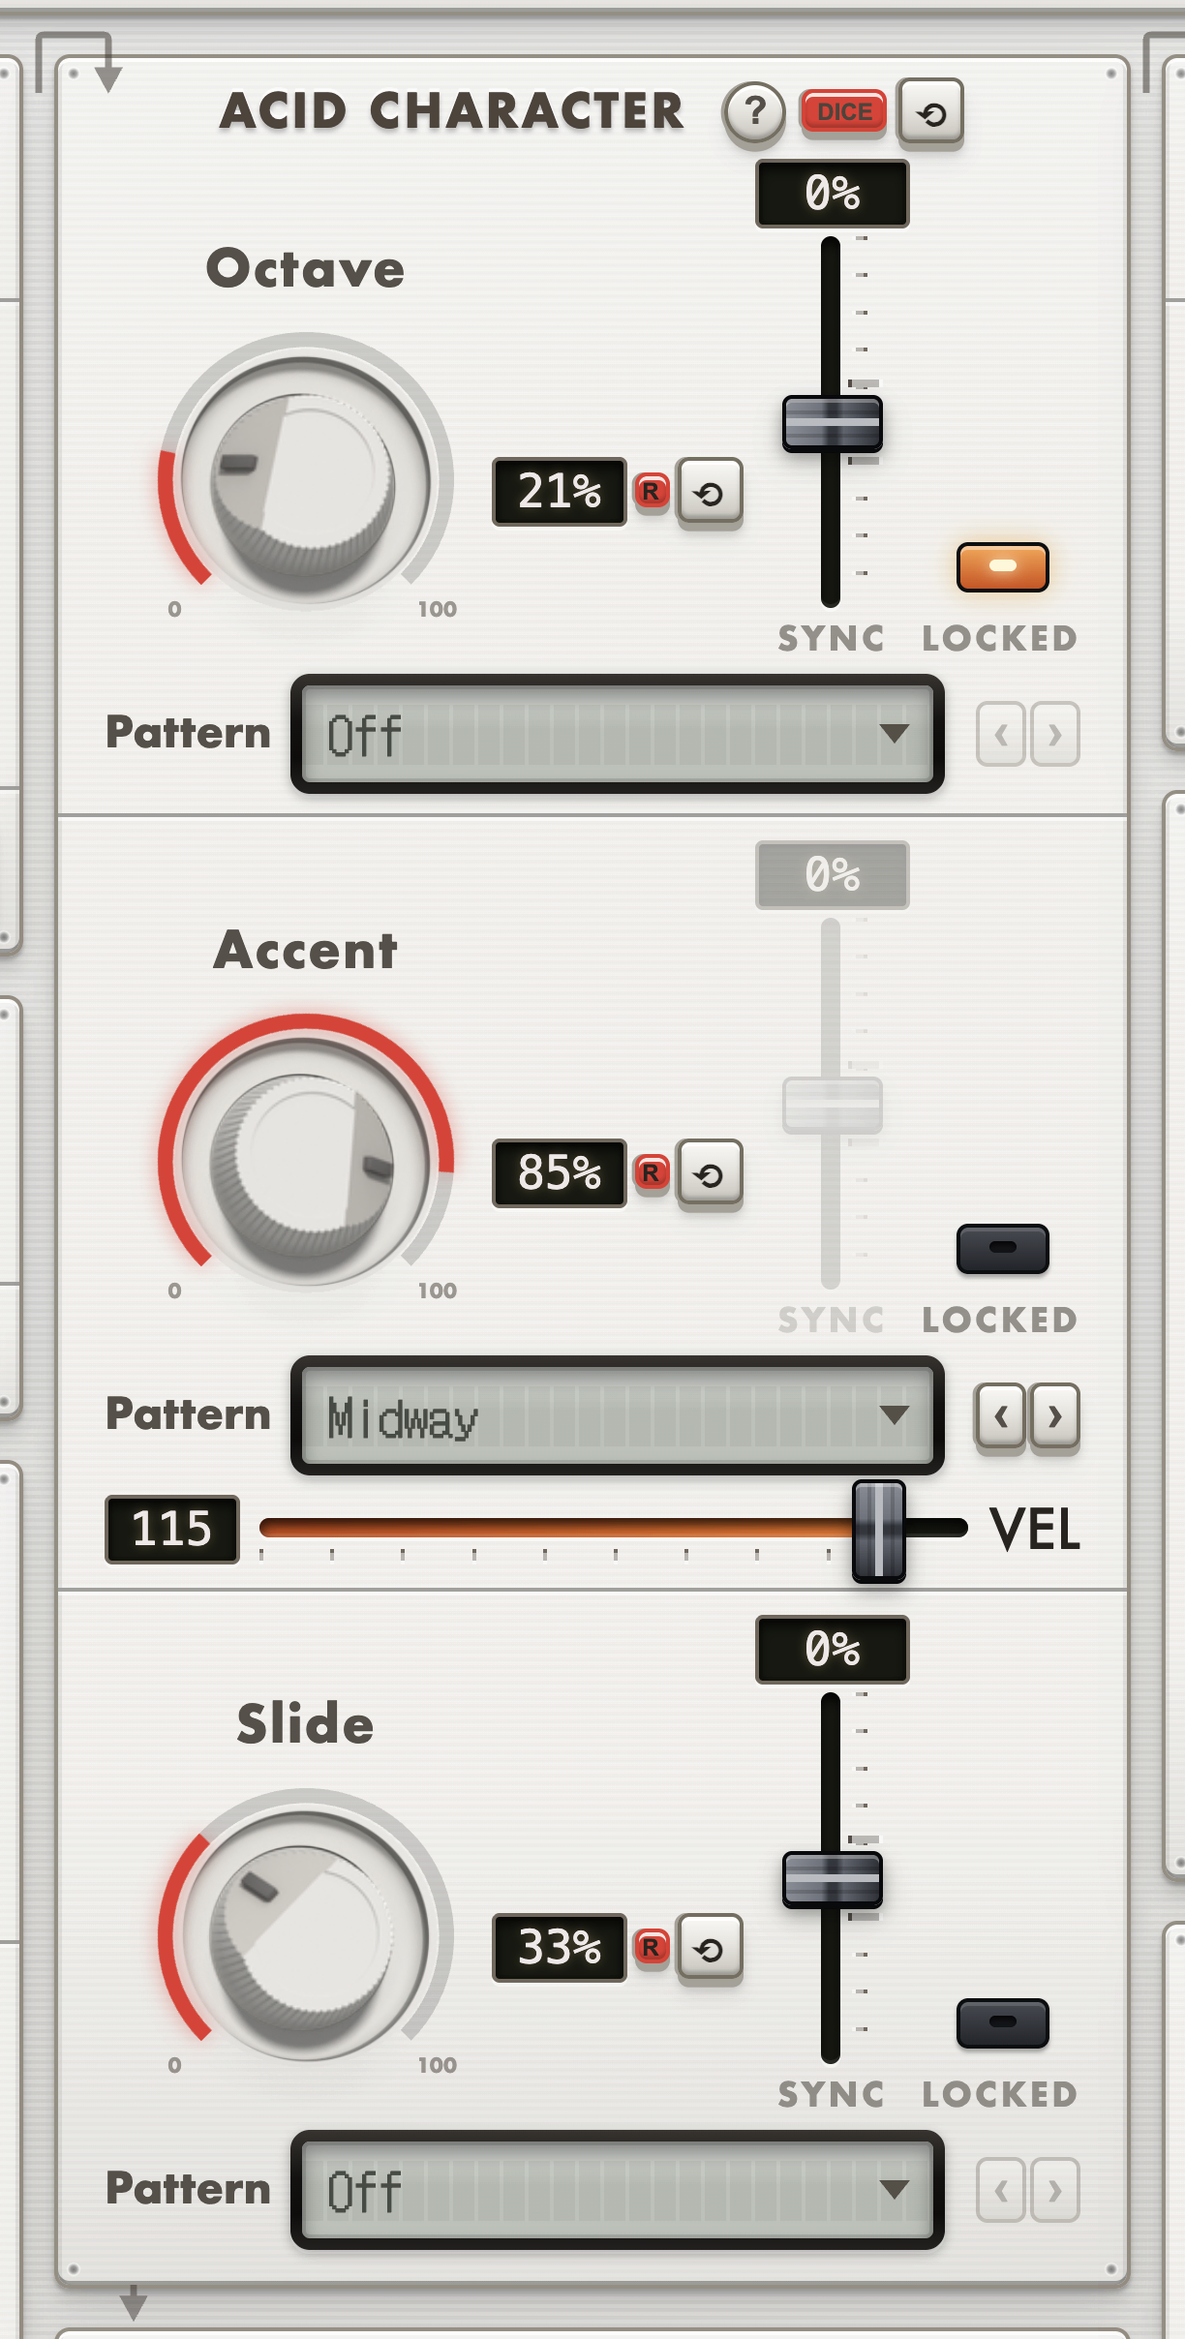
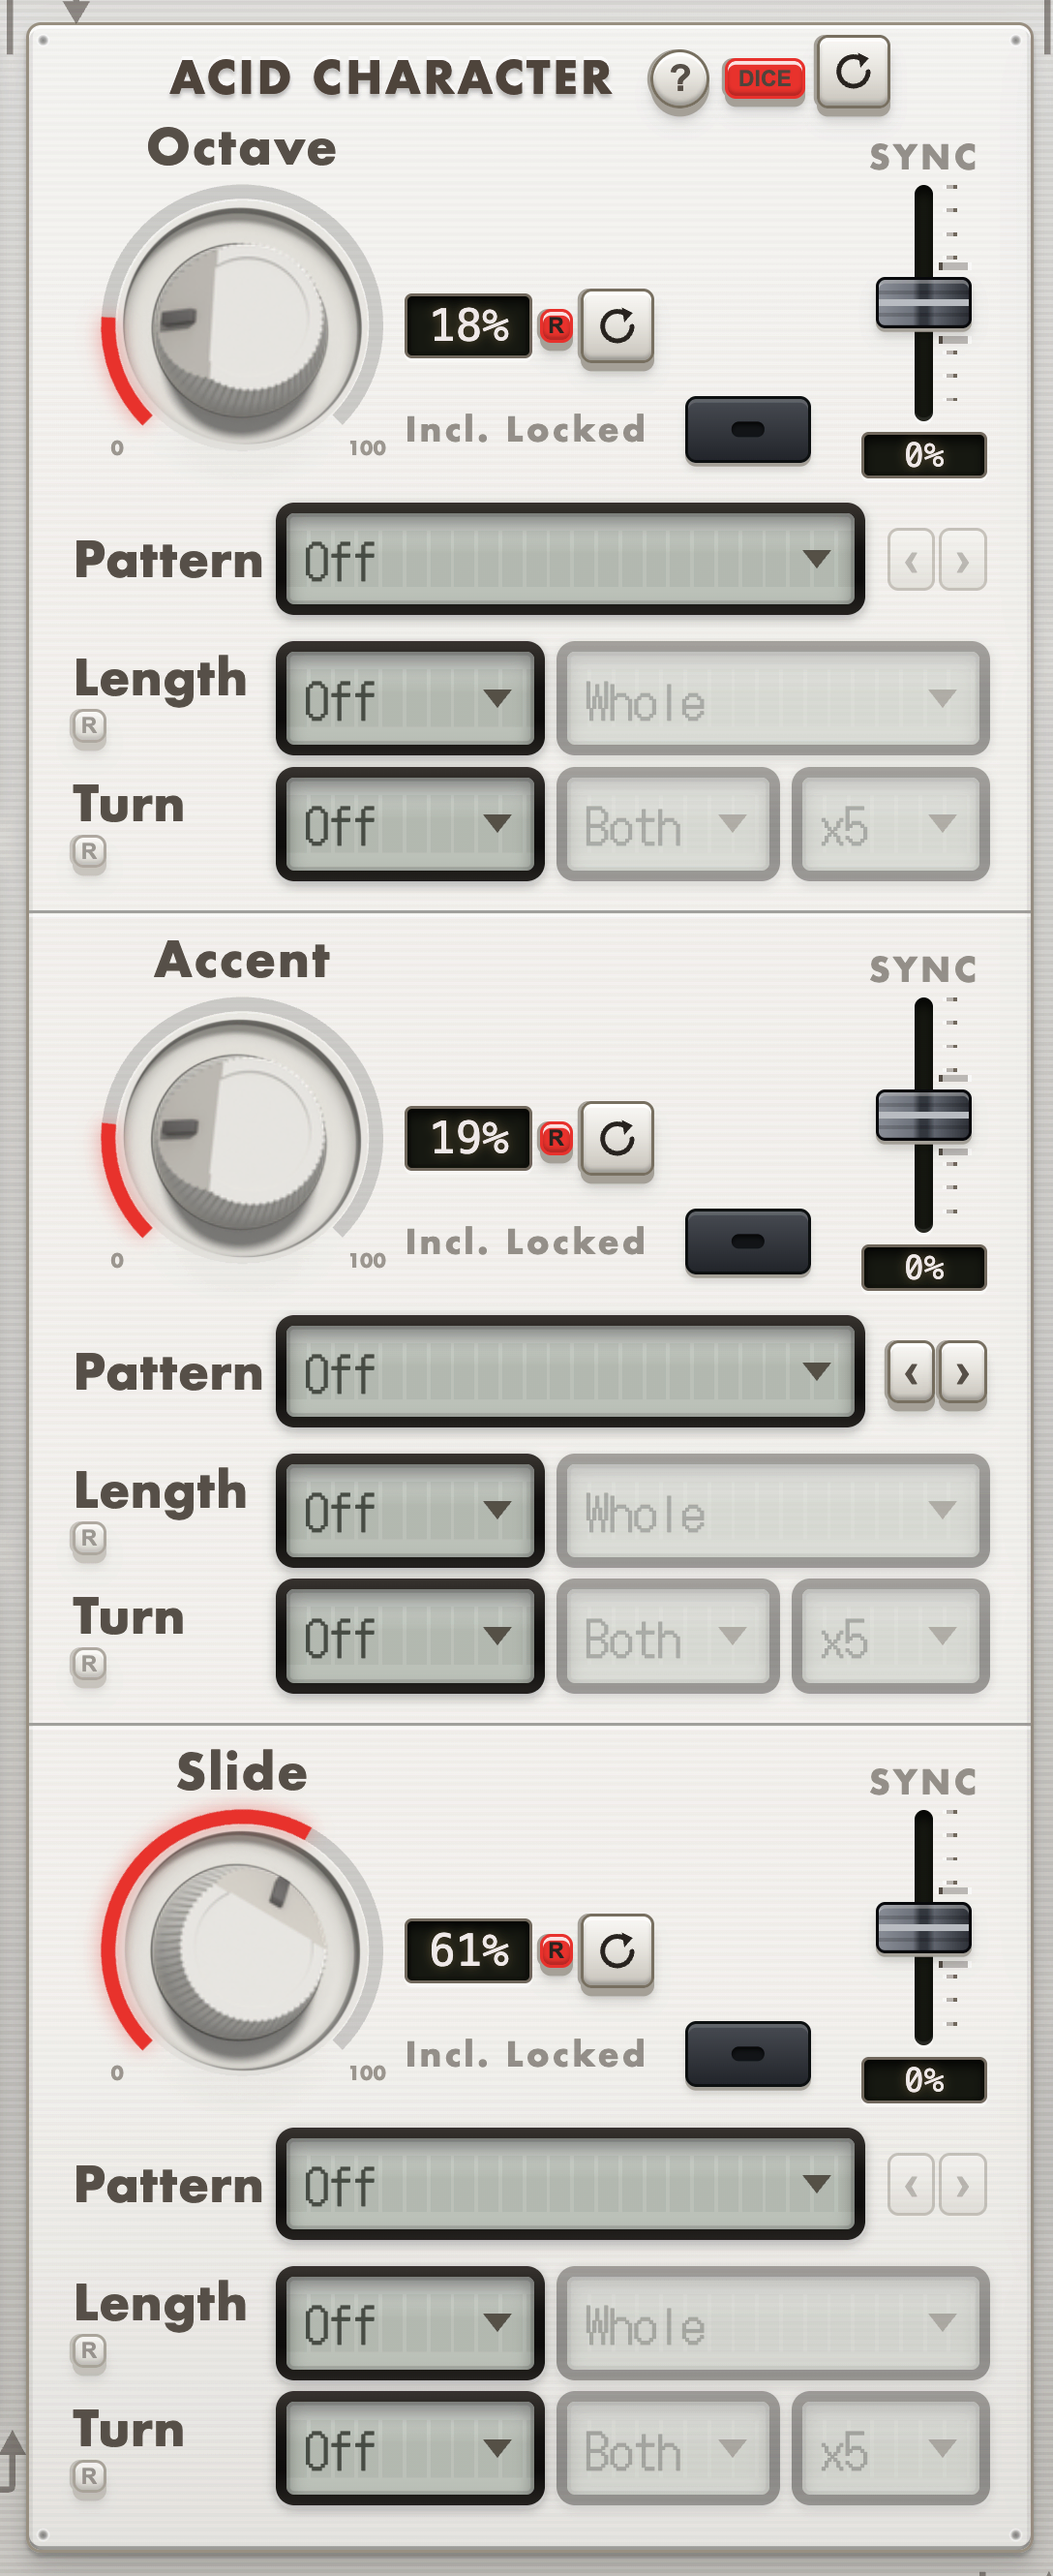
Publish site from jamwareaudio@37b3dc1

diff --git a/apps/mutationstation.html b/apps/mutationstation.html
@@ -96,7 +96,7 @@
     <div class="screen">
       <picture>
         <source srcset="../assets/shots/mutationstation.webp" type="image/webp" />
-        <img class="win-round" src="../assets/shots/mutationstation.png" alt="The MutationStation window: piano roll with locked and unlocked notes, scale panel, and the rhythm, pitch and acid character panels" />
+        <img class="win-round" src="../assets/shots/mutationstation.png" alt="The MutationStation window: a single-row piano-roll toolbar, the roll with locked and unlocked notes, the Scale panel with the Phrasing macro strip beneath it, and the rhythm, pitch and acid character panels" />
       </picture>
     </div>
   </section>
@@ -189,7 +189,7 @@
             <div class="screen">
               <picture>
                 <source srcset="../assets/shots/mutationstation-algorithms.webp" type="image/webp" />
-                <img src="../assets/shots/mutationstation-algorithms.png" alt="The Algorithm dropdown open, showing pitch strategies grouped under headings including Acid / bass shapes, Lead, Phrase forms, Melodic movement and Plain, with Factory Blend ticked" />
+                <img src="../assets/shots/mutationstation-algorithms.png" alt="The Algorithm dropdown open, showing pitch strategies grouped under headings including Whole line, Whole line · Adaptive, Acid / bass shapes, Lead, Phrase forms, Melodic movement and Plain" />
               </picture>
             </div>
             <figcaption>
@@ -199,6 +199,19 @@
               a different answer to &ldquo;where does the next note go?&rdquo;
             </figcaption>
           </figure>
+        </div>
+        <div class="prose story">
+          <p>
+            <strong>A Phrasing strip sits on the Scale panel,</strong> merged
+            onto one plate with an engraved divider: Phrase Length, Turnaround
+            Emphasis, and a "Which phrases" menu (every phrase, every 2nd, or
+            every 4th) that decides how often the emphasis lands. Every device
+            well also carries its own Length and Turn, following those macro
+            values until you set one directly — the LCD's Off entry is the
+            switch back to following the macro. Lengths are even-only and
+            reach 32 bars; an EXTEND switch grows a device's sequence to fit a
+            longer length.
+          </p>
         </div>
         <div class="prose story">
           <p>
@@ -215,7 +228,7 @@
             <div class="screen">
               <picture>
                 <source srcset="../assets/shots/mutationstation-acid.webp" type="image/webp" />
-                <img src="../assets/shots/mutationstation-acid.png" alt="The Acid Character column: Octave, Accent and Slide, each with an amount, a sync slider, a locked toggle and a pattern dropdown" />
+                <img src="../assets/shots/mutationstation-acid.png" alt="The Acid Character column: Octave, Accent and Slide, each around a full-size knob with a vertical SYNC fader, an Incl. Locked caption, a pattern dropdown and a lock" />
               </picture>
             </div>
             <figcaption>
@@ -227,18 +240,17 @@
             <div class="screen">
               <picture>
                 <source srcset="../assets/shots/mutationstation-shape.webp" type="image/webp" />
-                <img src="../assets/shots/mutationstation-shape.png" alt="The right-hand column of MutationStation: Turnaround Emphasis with its Every, Increase and Emphasise settings, Extend Loop with Repeats, a Bar Variation dropdown and five drift sliders for Pitch, Octave, Duration, Accent and Slide, the Density section, and the Keep Original amount" />
+                <img src="../assets/shots/mutationstation-shape.png" alt="The third column of MutationStation: Connect Notes, Extend Loop with Repeats, a Bar Variation dropdown and five drift sliders for Pitch, Octave, Duration, Accent and Slide, the Density section, Keep Original, and a re-roll key" />
               </picture>
             </div>
             <figcaption>
               The column beside it is where the line is shaped after the notes
-              are chosen. <strong>Turnaround Emphasis</strong> gives the last
-              notes of every one, two or four bars boosted odds, so the phrase
-              announces its own repeat; <strong>Extend Loop</strong> doubles or
-              quadruples the loop and lets the extra bars drift;
-              <strong>Density</strong> thins or thickens the pattern; and
-              <strong>Keep Original</strong>, last in the chain, hands a
-              percentage of the notes back to how they started.
+              are chosen. <strong>Extend Loop</strong> doubles or quadruples
+              the loop and lets the extra bars drift; <strong>Density</strong>
+              thins or thickens the pattern; <strong>Keep Original</strong>,
+              last in the chain, hands a percentage of the notes back to how
+              they started; and a thin circular-arrow <strong>re-roll key</strong>
+              sits on every device so you can reshuffle just that one panel.
             </figcaption>
           </figure>
         </div>
@@ -300,11 +312,14 @@
             slide each on their own amount.
           </li>
           <li>
-            <strong>Turnaround Emphasis.</strong> Every one, two or four bars,
-            the last notes of the group get boosted odds of being mutated, giving
-            the last two notes of your sequence a stronger chance of changing.
-            A useful melodic writing tool in house/techno music, where variation
-            usually lands at the end of a phrase.
+            <strong>Turnaround Emphasis,</strong> on a shared Phrasing strip
+            with Phrase Length. Every one, two or four bars, the last notes of
+            the group get boosted odds of being mutated, giving the last two
+            notes of your sequence a stronger chance of changing. A useful
+            melodic writing tool in house/techno music, where variation
+            usually lands at the end of a phrase. Every device can also
+            override the macro Length and Turn for itself, and grow to fit a
+            longer length with EXTEND.
           </li>
           <li>
             <strong>Keep Original.</strong> The last link in the chain: after
@@ -357,9 +372,17 @@
             tempo and its relocations; pick Internal and it plays by itself.
           </li>
           <li>
-            <strong>Hints and a manual in the window.</strong> Every panel
-            explains itself where you are standing, and the full manual is available
-            from the app.
+            <strong>An Info box, Ableton-style, and a manual in the window.</strong>
+            It describes whatever the mouse is over — LCD menus, pitch
+            algorithms, every control — and the full manual is available from
+            the app.
+          </li>
+          <li>
+            <strong>Randomize can deal a device's Length and Turn too,</strong>
+            on a 50% coin each, and only ever deals even lengths. Re-roll keys
+            on every device reshuffle just that one panel, and mutated notes
+            get a soft light outline in the roll rather than a recolour, so
+            fill still reads as velocity.
           </li>
           <li>And more. See manual for full feature list.</li>
         </ul>

diff --git a/apps/midimirror.html b/apps/midimirror.html
@@ -162,6 +162,72 @@
 
   <section class="section wrap">
     <div class="panel">
+      <h2 class="panel-head">A guided setup that computes your Live preferences for you</h2>
+      <div class="panel-body">
+        <div class="prose story">
+          <p>
+            Configure opens on a tab strip — <strong>Setup, Controller,
+            Mapping, Install To Ableton</strong> — and the first tab is a
+            three-step card, not a page of instructions to follow by eye.
+            Step one: choose your controller. Step two:
+            <strong>who drives it</strong> — its own factory script
+            (<em>Passive</em>: nothing to map, labels read straight from Live,
+            read-only) or MidiMirror itself (<em>Active</em>: you choose what
+            every control does). Step three tells you the exact Live path
+            (Preferences → Link, Tempo & MIDI) and then works out what should
+            be sitting there: a <strong>Your Live Setup</strong> box that
+            counts how many Control Surface rows the choice needs, checks how
+            many are already correct, and spells out the row itself — name,
+            input, output — rather than leaving you to guess it. A "Set these
+            up for me" button writes the rows directly; <strong>Generate
+            Remote Script</strong> underneath is the one button that always
+            has to be pressed by hand.
+          </p>
+        </div>
+        <figure class="zoom">
+          <div class="screen">
+            <picture>
+              <source srcset="../assets/shots/midimirror-setup.webp" type="image/webp" />
+              <img src="../assets/shots/midimirror-setup.png" alt="The MidiMirror Set up your controller card: a tab strip with Setup lit, step 1 Choose your controller, step 2 Passive vs Active cards, and step 3 Generate and Restart with a Your Live Setup box reading One Control Surface row, 0 of 1 already in Live, the row spelled out as MidiMirror_Generic, Input None, Output None, and a Set these up for me button above Generate Remote Script" />
+            </picture>
+          </div>
+          <figcaption>
+            The box that matters: it tells you what your Live preferences
+            should say and how much of that is already true, instead of
+            handing you a manual step to eyeball.
+          </figcaption>
+        </figure>
+        <div class="prose story">
+          <p>
+            The <strong>Controller</strong> tab is where you come back once
+            things are wired — it shows Live's current state ("Now: Akai
+            MIDI Mix, factory, read-only"), lets you open a second controller
+            in its own window, jump straight to editing the deck, or make an
+            editable copy of a factory controller so you can start
+            customising without losing the original. Every controller you
+            have ever opened stays listed underneath, ready to reopen or
+            forget.
+          </p>
+        </div>
+        <figure class="zoom">
+          <div class="screen">
+            <picture>
+              <source srcset="../assets/shots/midimirror-configure.webp" type="image/webp" />
+              <img src="../assets/shots/midimirror-configure.png" alt="The MidiMirror Configure popup on its Controller tab: Now: Akai MIDIMIX, factory, read-only; rows for Open in a second window with an Akai APC mini picker, Edit this controller, New controller, Save as a copy, Change name greyed out, Panel layout, Make an editable copy of this controller, and an Open/Forget list showing M-Audio Oxygen Pro 61" />
+            </picture>
+          </div>
+          <figcaption>
+            Configure ▸ Controller: what Live currently has loaded, and every
+            door out of it — a second window, a copy you can edit, or a fresh
+            controller from scratch.
+          </figcaption>
+        </figure>
+      </div>
+    </div>
+  </section>
+
+  <section class="section wrap">
+    <div class="panel">
       <h2 class="panel-head">A controller you design yourself</h2>
       <div class="panel-body">
         <div class="prose story">
@@ -471,12 +537,12 @@
           <div class="panel-body">
             <div class="prose">
               <p>
-                1. Install the app, and let it place its Remote Script in Live's
-                User Library on first launch.<br />
-                2. In Live: Preferences → Link/Tempo/MIDI, and pick
-                <strong>MidiMirror</strong> as a Control Surface with the MIDIMIX
-                as its input and output.<br />
-                3. Open the mirror on your second screen.
+                Open <strong>Configure ▸ Setup</strong> and follow the three
+                steps: pick your controller, pick Passive or Active, then let
+                <strong>Your Live Setup</strong> work out the Control Surface
+                rows Live needs and offer to write them for you. Press
+                <strong>Generate Remote Script</strong>, restart Live, and
+                open the mirror on your second screen.
               </p>
               <p>
                 Move a knob and its name appears. Select a different device and
